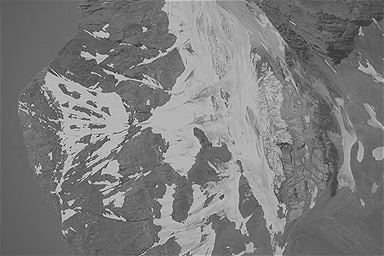
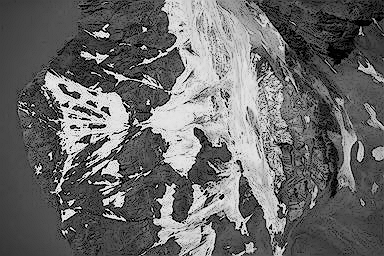
Fix sharpen filter result display err

diff --git a/02_Histogram_and_Spatial_Filtering/src/spatial_filter.py b/02_Histogram_and_Spatial_Filtering/src/spatial_filter.py
@@ -6,7 +6,7 @@ from PIL import Image
 
 def filter2d(input_img, filter):
     height, width = input_img.shape
-    output_img = np.zeros((height, width))
+    output_img = np.zeros_like(input_img)
     # rotate the filter by 180 degree
     filter_rt = np.rot90(filter, 2)
     # add zero-padding
@@ -45,33 +45,35 @@ def gen_avg_filter(filter_len):
 
 
 def main():
-    input_img = np.array(Image.open('images/72.png').convert('L'))
+    input_img = np.array(Image.open('images/72.png').convert('L'), dtype=np.float64)
 
     # smooth image
     for filter_len in [3, 7, 11]:
         avg_filter = gen_avg_filter(filter_len)
         output_img = filter2d(input_img, avg_filter)
+        output_img = np.clip(output_img, 0, 255)
         output_img = Image.fromarray(output_img.astype(np.uint8), 'L')
         img_title = "images/avg_filter_%d_%d_72.png" % (filter_len, filter_len)
         output_img.save(img_title)
         print "Successfully saved %s" % img_title
 
     # sharpen image using 3 × 3 Laplacian filter
-    lap_filter = np.array([0, 1, 0, 1, -4, 1, 0, 1, 0]).reshape((3, 3))
+    lap_filter = np.array([0, 1, 0, 1, -4, 1, 0, 1, 0], dtype=np.int64).reshape((3, 3))
     output_img = filter2d(input_img, lap_filter)
-    output_img = stand_img(output_img)
-    enhance_img = stand_img(input_img.astype(np.float64) - output_img)
-    enhance_img = Image.fromarray(enhance_img, 'L')
+    cliped_img = np.clip(output_img, 0, 255)
+    # Image.fromarray(stand_img(output_img), 'L').show()
+    enhance_img = np.clip(input_img - cliped_img, 0, 255)
+    enhance_img = Image.fromarray(enhance_img.astype(np.uint8), 'L')
     img_title = "images/sharpen_72.png"
     enhance_img.save(img_title)
     print "Successfully saved %s" % img_title
 
     # high boost filtering
     blur_img = filter2d(input_img, gen_avg_filter(7))
-    g_mask = stand_img(input_img - blur_img)
-    k = 1.3
-    g_output = stand_img(input_img.astype(np.float64) + k * g_mask.astype(np.float64))
-    output_img = Image.fromarray(g_output, 'L')
+    g_mask = np.clip(input_img - blur_img, 0, 255)
+    k = 1.5
+    g_output = np.clip(input_img + k * g_mask, 0, 255)
+    output_img = Image.fromarray(g_output.astype(np.uint8), 'L')
     img_title = "images/hboost_%.1f_72.png" % k
     output_img.save(img_title)
     print "Successfully saved %s" % img_title

diff --git a/02_Histogram_and_Spatial_Filtering/report.md b/02_Histogram_and_Spatial_Filtering/report.md
@@ -87,11 +87,11 @@ The histogram is displayed by using **bar chart**, where x is set as `range(256)
 
 * **High-boost filtering**
 
-k = 1.3
+k = 1.5
 
-![](src/images/hboost_1.3_72.png)
+![](src/images/hboost_1.5_72.png)
 
 * **Discussion about implement**
 
 The filter operation itself is easy to implement, just by simply rotate the filter to 180 degree, and then pad the image with 0 with the length of `filter_len / 2`, and then apply filter to every path of the image. That's it.<br>
-However, to display the image in the proper way really takes a lot of time. Until now I still cannot not find the right way to do linear stretch. 
+However, to display the image in the proper way really takes a lot of time. Until now I still cannot not find the right way to do linear stretch.
